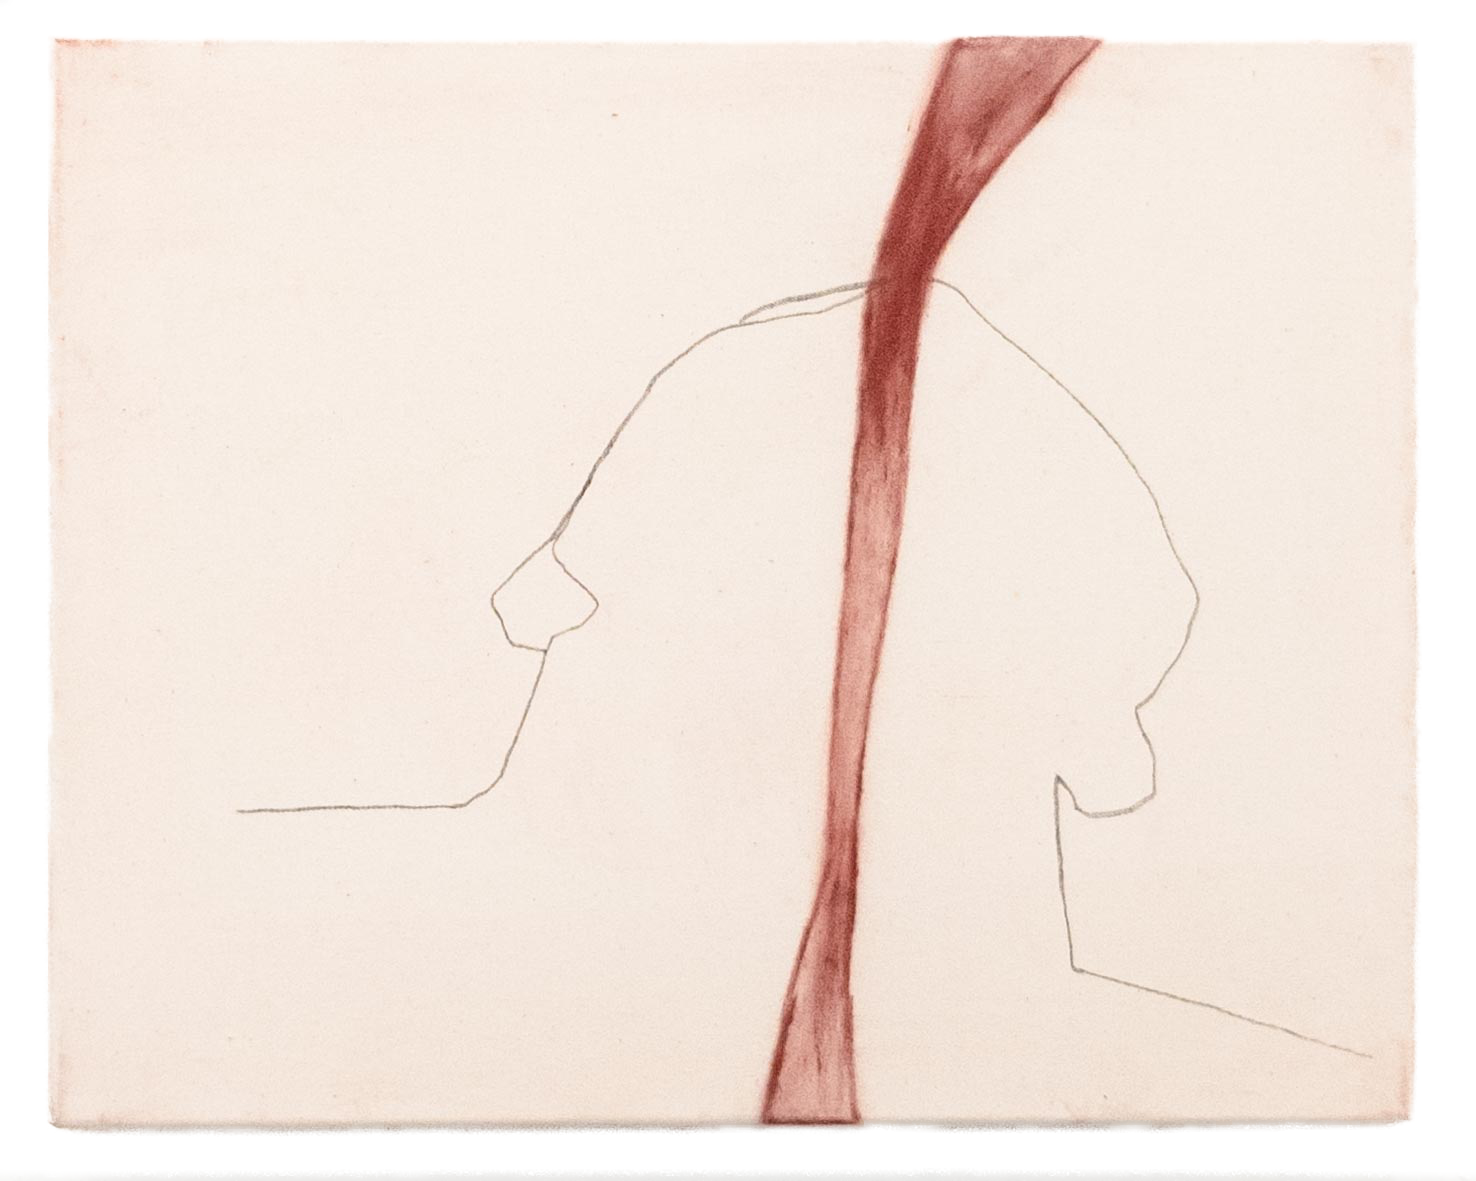
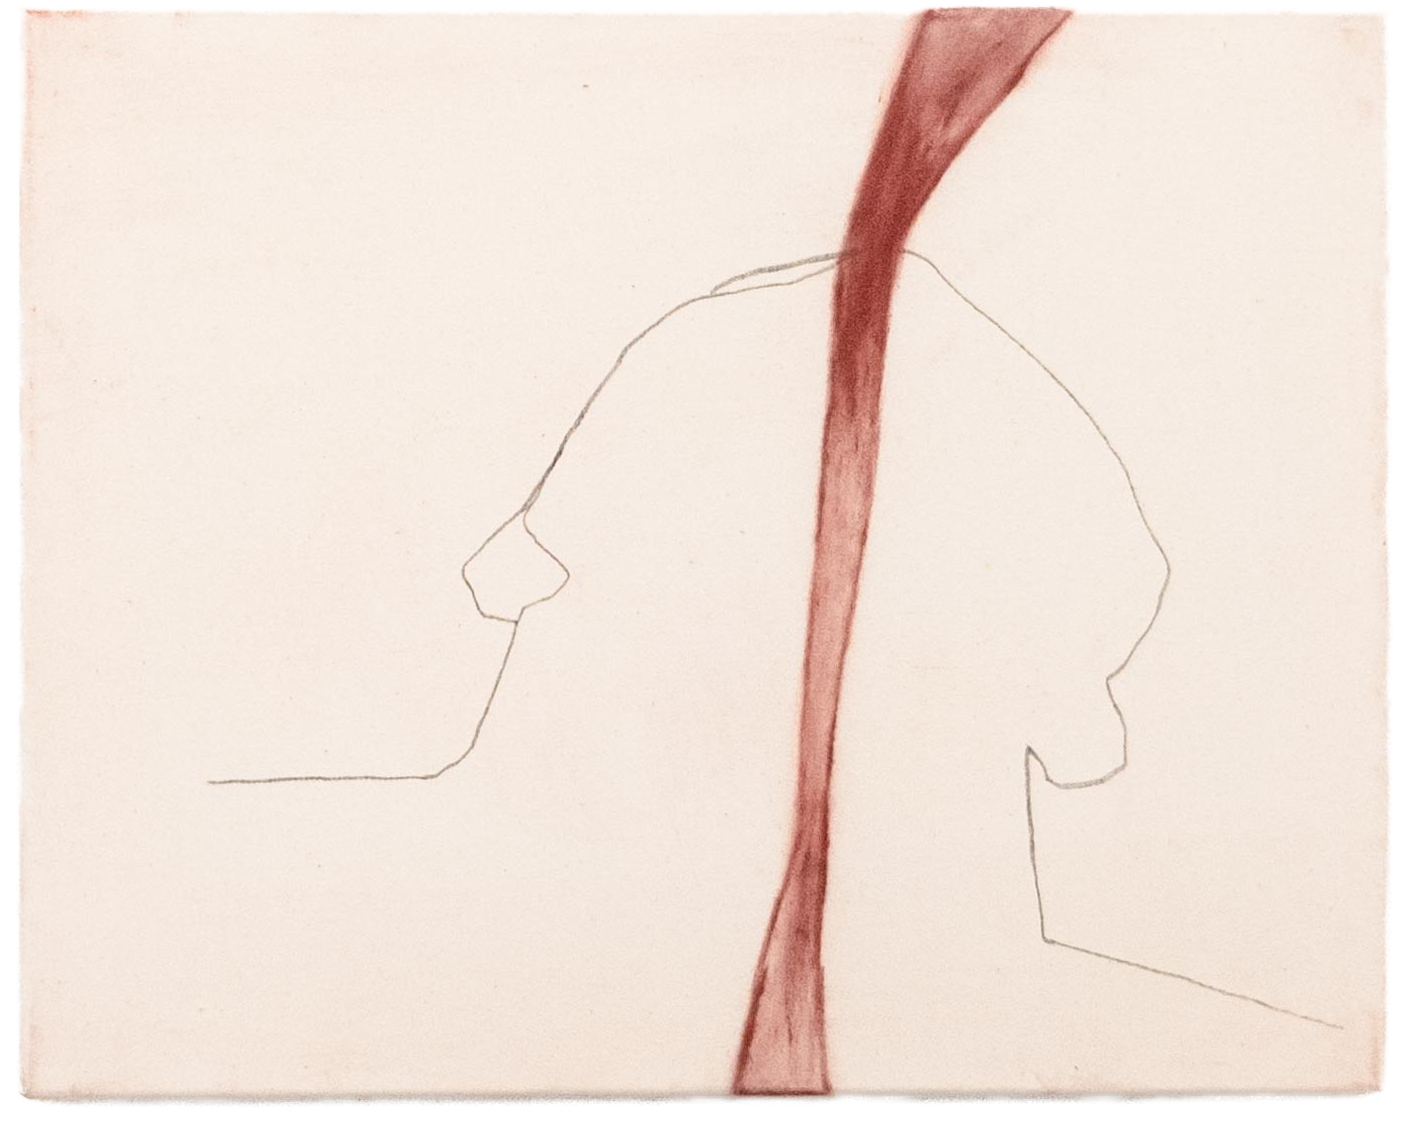
commit finetune

diff --git a/script.js b/script.js
@@ -29,7 +29,8 @@
 		});
 	}
 
-	// --- Zoom overlay ---
+	// --- Zoom overlay (only on pages with gallery images) ---
+	if (typeof projectData !== "undefined") {
 	const zoomOverlay = document.createElement("div");
 	zoomOverlay.className = "zoom-overlay";
 
@@ -43,25 +44,40 @@
 	nextBtn.textContent = "next";
 	nextBtn.setAttribute("aria-label", "Next image");
 
-	const zoomImg = document.createElement("img");
-	zoomImg.alt = "zoomed image";
+	const zoomMedia = document.createElement("div");
+	zoomMedia.className = "zoom-media";
 
 	zoomOverlay.appendChild(prevBtn);
-	zoomOverlay.appendChild(zoomImg);
+	zoomOverlay.appendChild(zoomMedia);
 	zoomOverlay.appendChild(nextBtn);
 	document.body.appendChild(zoomOverlay);
 
 	let zoomIndex = 0;
 
-	function getGalleryImages() {
-		return Array.from(document.querySelectorAll(".project-image")).filter(el => el.tagName === "IMG");
+	function getGalleryMedia() {
+		return Array.from(document.querySelectorAll(".project-image")).filter(el => el.tagName === "IMG" || el.tagName === "VIDEO");
 	}
 
 	function showZoomIndex(index) {
-		const imgs = getGalleryImages();
-		if (!imgs.length) return;
-		zoomIndex = ((index % imgs.length) + imgs.length) % imgs.length;
-		zoomImg.src = imgs[zoomIndex].src;
+		const items = getGalleryMedia();
+		if (!items.length) return;
+		zoomIndex = ((index % items.length) + items.length) % items.length;
+		const source = items[zoomIndex];
+		zoomMedia.innerHTML = "";
+		if (source.tagName === "VIDEO") {
+			const video = document.createElement("video");
+			video.src = source.src;
+			video.controls = true;
+			video.autoplay = true;
+			video.loop = true;
+			video.playsInline = true;
+			zoomMedia.appendChild(video);
+		} else {
+			const img = document.createElement("img");
+			img.src = source.src;
+			img.alt = "zoomed image";
+			zoomMedia.appendChild(img);
+		}
 	}
 
 	prevBtn.addEventListener("click", (e) => {
@@ -88,14 +104,15 @@
 	});
 
 	document.addEventListener("click", (e) => {
-		if (e.target.classList.contains("project-image") && e.target.tagName === "IMG") {
+		if (e.target.classList.contains("project-image") && (e.target.tagName === "IMG" || e.target.tagName === "VIDEO")) {
 			e.preventDefault();
-			const imgs = getGalleryImages();
-			zoomIndex = imgs.indexOf(e.target);
-			zoomImg.src = e.target.src;
+			const items = getGalleryMedia();
+			zoomIndex = items.indexOf(e.target);
+			showZoomIndex(zoomIndex);
 			zoomOverlay.classList.add("active");
 		}
 	});
+	} // end zoom overlay guard
 
 	// --- Project gallery ---
 	if (typeof projectData !== "undefined") {

diff --git a/index.html b/index.html
@@ -41,7 +41,7 @@
                 </section>
 
                 <section class="grid-container grid-right">
-                        <div class="grid-item"><div class="text"><br> a maker, do-er, thinker. speaks in the first person, <br> <span class="hover-text">works with the body through video, photography and drawing using everyday objects, fabric and wood, <br>motivated by ethical relationships between individuals, objects and spaces. struggling to differentiate, looks for ways to dissipate borders with attention to subjective experience, <br>occupied with somatic resistances which reflect into ways of being, making; with singularity and the post-political necessity of building aesth(ethics) through an ontological methodology,</span> <br> searches through tension, refusal, the instinct to stay still; moves without ease, <br> thinks of the 'i' plurally, <br> is happy with making.</div></div>
+                        <div class="grid-item"><div class="text"><br> a maker, do-er, thinker. speaks in the first person, <br> <span class="hover-text">works with the body through video, photography and drawing using everyday objects, fabric and wood, <br>motivated by relationships between individuals, objects and spaces. struggling to differentiate, looks for ways to dissipate borders with attention to subjective experience, <br>occupied with somatic resistances which reflect into ways of being and making; with singularity and the necessity of building aesth(ethics) with an ontological methodology,</span> <br> searches through the instinct to stay still; moves without ease, <br> thinks of the 'i' plurally, <br> is happy with making.</div></div>
                         <div class="grid-item"><div class="text-image"><img id="preview-image" src="./IMG_20260306_181028.jpg" alt="Preview image"></div></div>
                         <div class="grid-item"><div class="text"><span class="hover-trigger" data-hover-image="portrait-1.jpg">joana franco (2001) pt-nl</span></div></div>
                 </section>

diff --git a/oti.html b/oti.html
@@ -32,10 +32,10 @@
         <script>
                 const projectData = {
                         oti: { 
-                                info: "internet fun",
+                                info: "",
                                 previews: [
                                         { image: "containedarm/arm1_4.jpg", url: "containedarm/onecontainedarm.html" },
-                                        { image: "id_like_to_tell_paper/2024onpaper-01.png", url: "id_like_to_tell_paper/id_like_to_tell_paper.html" },
+                                        { image: "id_like_to_tell_paper/2024onpaper-18.png", url: "id_like_to_tell_paper/id_like_to_tell_paper.html" },
                                         { image: "shouffleme/armcomposition 1 (1).png", url: "shouffleme/shouffleme.html" }
                                 ]
                         }

diff --git a/ot.html b/ot.html
@@ -72,11 +72,9 @@
                                 images: [
                                         "on_touch/outlinedbodies2025-03.png",
                                         "on_touch/outlinedbodies2025-04.png",
-                                        "on_touch/outlinedbodies2025-05.png",
                                         "on_touch/outlinedbodies2025-06.png",
                                         "on_touch/outlinedbodies2025-07.png",
                                         "on_touch/outlinedbodies2025-08.png",
-                                        "on_touch/outlinedbodies2025-09.png",
                                         "on_touch/outlinedbodies2025-10.png",
                                         "on_touch/outlinedbodies2025-11.png",
                                         "on_touch/outlinedbodies2025-12.png",

diff --git a/oio.html b/oio.html
@@ -32,7 +32,7 @@
         <script>
                 const projectData = {
                     oio : {
-                        info: "2021 \n\n under the purview of Walk&Talk Arts Festival, Instituto Cultural de Ponta Delgada, São Miguel \n\ninstallation, 300x300x300cm, ink on stretched cotton \n\n documented by Mariana Lopes",
+                        info: "2021 \n\n under the purview of Walk&Talk Arts Festival, Instituto Cultural de Ponta Delgada, São Miguel \n\ninstallation, 300x300x300cm, guache on stretched cotton \n\n documented by Mariana Lopes",
                         images: [
                             "of_inside_of/W_T21_JoanaFrancoFinais_MarianaLopes_20.jpg",
                             "of_inside_of/W_T21_JoanaFrancoFinais_MarianaLopes_02.jpg",

diff --git a/im.html b/im.html
@@ -32,7 +32,7 @@
         <script>
                 const projectData = {
                         im: { 
-                                info: "2024-25 \n\n selection. \n\n on ingraining.",
+                                info: "2024-25 \n\n selection. \n\n on self ingraining.",
                                 images: [
                                         "to_ingrain/ingrainme-1.png",
                                         "to_ingrain/ingrainme-2.png",

diff --git a/mp.html b/mp.html
@@ -91,7 +91,6 @@
                                 info: "São Miguel \n\n 2022",
                                 images: [
                                         "making_part/sete_cidades/10.jpg",
-                                        "making_part/sete_cidades/12.jpg",
                                         "making_part/sete_cidades/14.jpg",
                                         "making_part/sete_cidades/18.jpg"
                                 ]

diff --git a/style.css b/style.css
@@ -131,6 +131,18 @@ body {
     user-select: none;
 }
 
+.zoom-media {
+    display: flex;
+    align-items: center;
+    justify-content: center;
+}
+
+.zoom-media video {
+    max-width: 80vw;
+    max-height: 90vh;
+    object-fit: contain;
+}
+
 .zoom-arrow {
     position: absolute;
     top: 50%;

diff --git a/id_like_to_tell_paper/id_like_to_tell_paper.html b/id_like_to_tell_paper/id_like_to_tell_paper.html
@@ -51,7 +51,7 @@
 <body>
 
     <div class="header">
-        <p>i'd like to tell, on paper</p>
+        <p>i'd like to tell & ingrain-me, on paper</p>
     </div>
     <div class="grid" id="grid"></div>
     <script>
